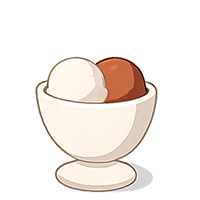
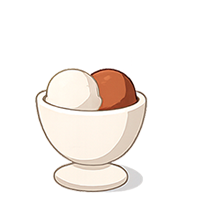
newdesign

Changed region(s): [[0.15, 0.27, 0.81, 0.96]]

diff --git a/testprak/js/game.js b/testprak/js/game.js
@@ -14,8 +14,9 @@ class BootScene extends Phaser.Scene {
         this.load.image('brown2', 'assets/images/brown2.png');
         this.load.image('green', 'assets/images/green.png');
         this.load.image('green2', 'assets/images/green2.png');
-        this.load.image('stol', 'assets/images/stol.png');
+        this.load.image('stol', 'assets/images/cafetery.png');
         
+    
         // --- ЗВУКИ ---
         this.load.audio('clickIce', 'assets/sounds/click_icecream.wav');
         this.load.audio('unclickIce', 'assets/sounds/Close_Click_icecream.wav');
@@ -82,6 +83,7 @@ class IntroScene extends Phaser.Scene {
     constructor() { super('IntroScene'); }
     create() {
         this.add.image(640, 360, 'stol').setDisplaySize(1280, 720);
+
         this.wires = [
             { id: 'wo',  name: 'БО', texture: 'orange' },
             { id: 'o',   name: 'О',  texture: 'orange2' },
@@ -166,18 +168,30 @@ class IntroScene extends Phaser.Scene {
         this.playerSelection = []; this.selectionText.setText('Ваш выбор: '); this.statusText.setText(''); this.isLocked = false; 
         this.interactiveItems.forEach(item => item.destroy()); this.interactiveItems = [];
         let shuffled = [...this.wires].sort(() => Math.random() - 0.5);
-        const startX = 150; const spacing = 140; const targetY = 450; 
+        const startX = 180; const spacing = 125; const targetY = 470; 
 
         shuffled.forEach((wire, index) => {
+            // 1. Создаем контейнер для каждого "стаканчика"
             let container = this.add.container(startX + (index * spacing), targetY);
+            
+            // 2. ВАЖНО: Устанавливаем глубину 2, чтобы мороженое было ПОВЕРХ бармена (у бармена depth=1)
+            container.setDepth(2); 
+
+            // 3. Добавляем картинку
             let iceCream = this.add.image(0, 0, wire.texture);
-            iceCream.setDisplaySize(185, 185);
-            let hitArea = this.add.rectangle(0, 0, 185, 185, 0x000000, 0).setInteractive({ useHandCursor: true });
-            let label = this.add.text(0, -110, wire.name, { font: 'bold 20px Arial', fill: '#ffffff', stroke: '#000000', strokeThickness: 4 }).setOrigin(0.5);
-            container.add([iceCream, hitArea, label]);
+            iceCream.setDisplaySize(155, 155);
+            
+            // 4. Добавляем невидимую зону для клика
+            let hitArea = this.add.rectangle(0, 0, 155, 155, 0x000000, 0).setInteractive({ useHandCursor: true });
+            
+            // Добавляем объекты внутрь контейнера
+            container.add([iceCream, hitArea]);
+            
+            // Запоминаем контейнер и вешаем событие клика
             this.interactiveItems.push(container);
             hitArea.on('pointerdown', () => this.handleSelection(wire, container));
         });
+
     }
 
     handleSelection(wire, container) {
@@ -193,6 +207,9 @@ class IntroScene extends Phaser.Scene {
             container.setAlpha(0.2); 
             this.sound.play('clickIce'); 
         }
+        
+        // Тут логика поиска по имени для строки «Ваш выбор» работает отлично, 
+        // так как данные берутся из оригинального массива this.wires в памяти
         let currentString = this.playerSelection.map(id => this.wires.find(w => w.id === id).name).join('-');
         this.selectionText.setText('Ваш выбор: ' + currentString);
         
@@ -226,7 +243,6 @@ class IntroScene extends Phaser.Scene {
         }
     }
 }
-
 class MainWorkspaceScene extends Phaser.Scene {
     constructor() { super('MainWorkspaceScene'); }
     
